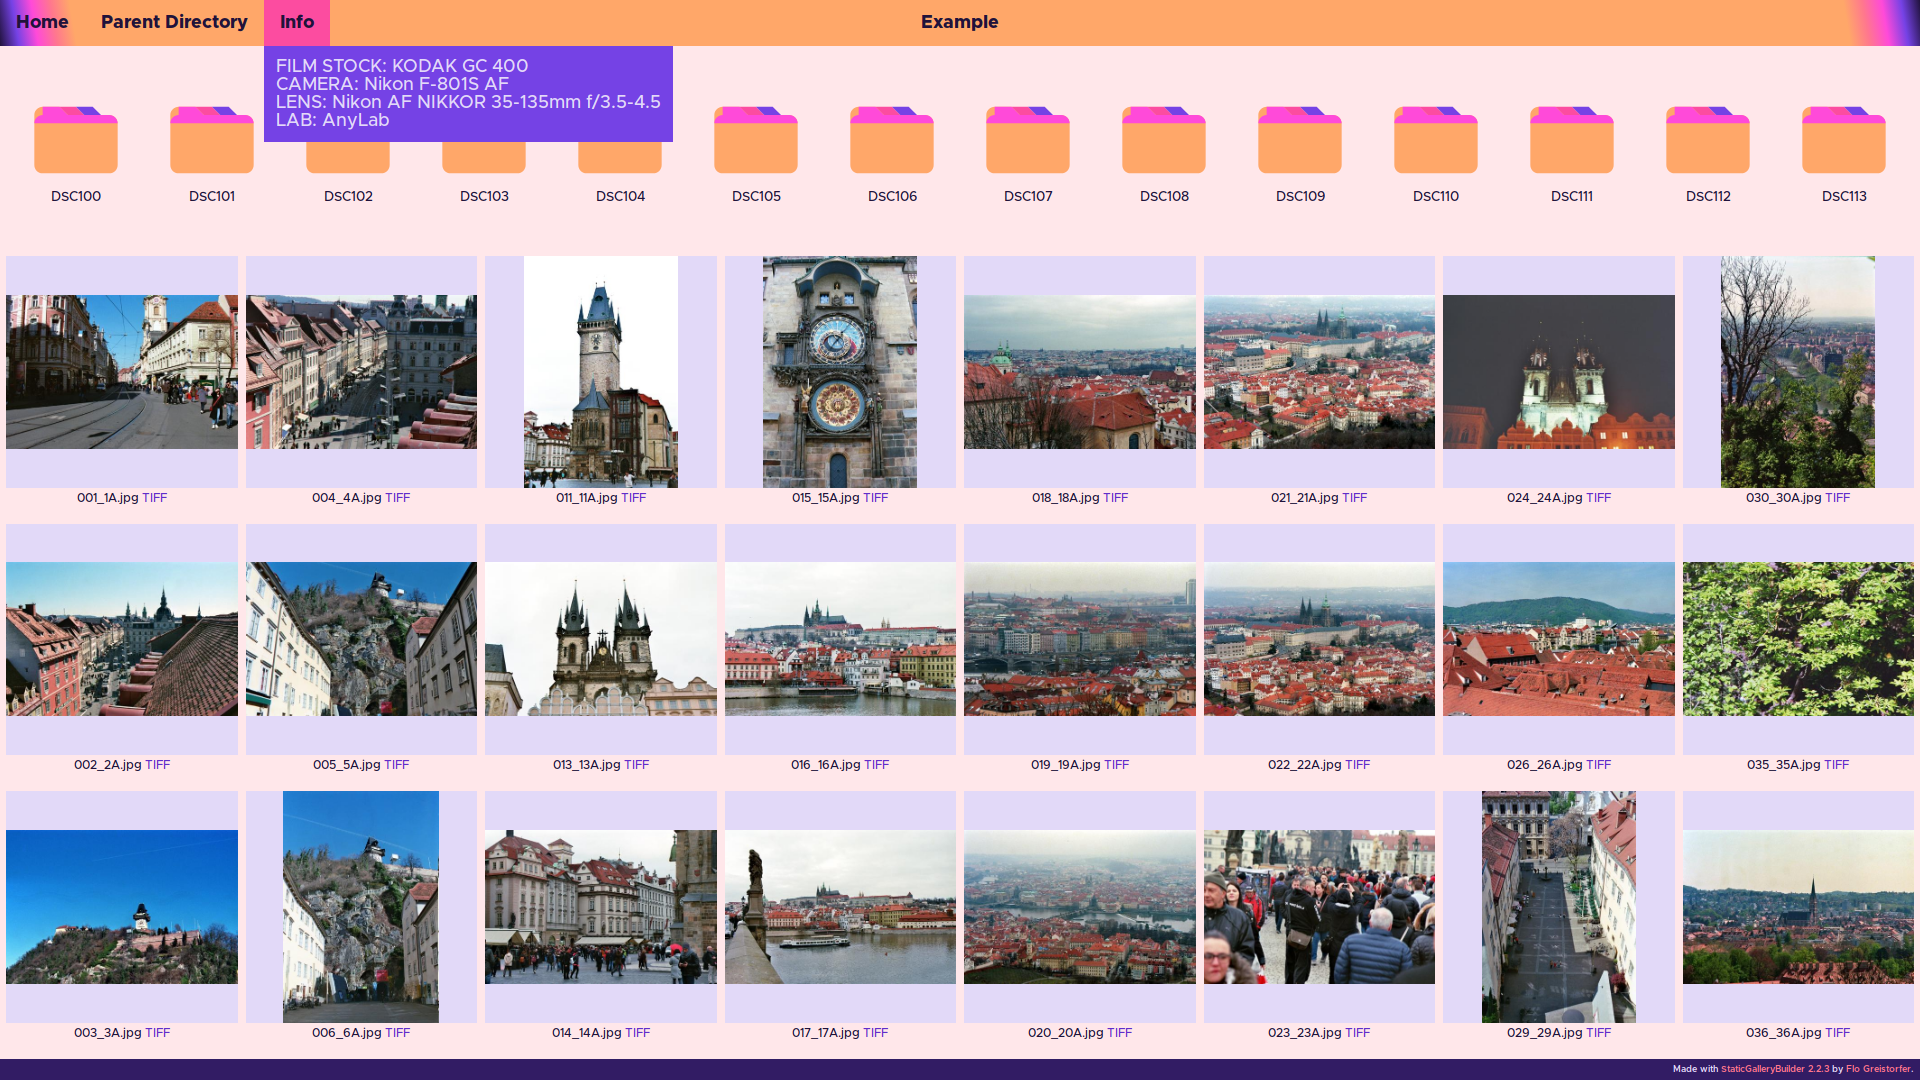
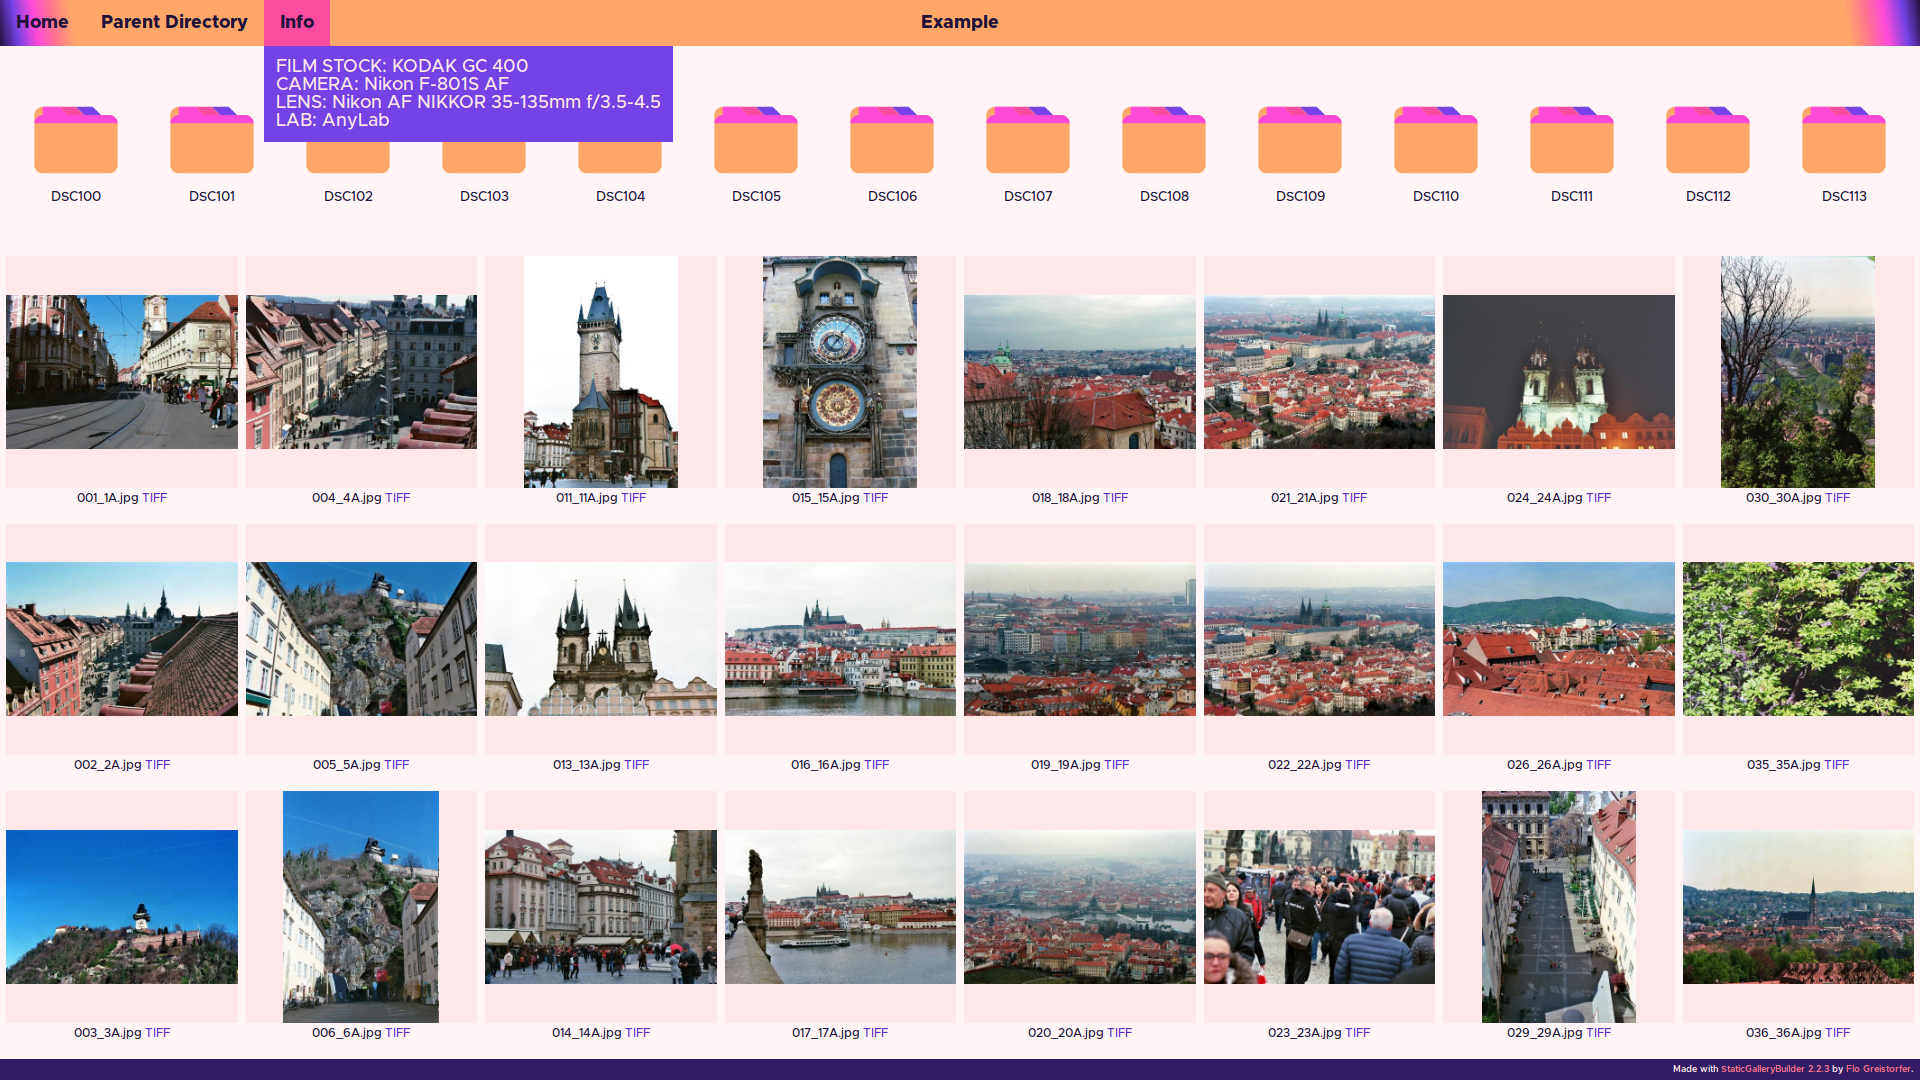
added support for all css color types

diff --git a/alpenglow-dark.css b/alpenglow-dark.css
@@ -1,18 +1,30 @@
-@import url('https://fonts.cdnfonts.com/css/metropolis-2');
+@import url("https://fonts.cdnfonts.com/css/metropolis-2");
 
 * {
-  --color1: #FFA769;
-  --color2: #FC4CA0;
-  --color3: #7542E5;
-  --color4: #FF4AD9;
-  --color5: #5F2ECA;
-  --color6: #7033CA;
-  --color7: #FF778E;
+  --color1: #ffa769;
+  --color2: #fc4ca0;
+  --color3: #7542e5;
+  --color4: #ff4ad9;
+  --color5: #5f2eca;
+  --color6: #7033ca;
+  --color7: #ff778e;
   --bcolor1: #e2d9f8;
-  --bcolor2: #20123A;
-  --bcolor3: #2B1753;
-  --bcolor4: #321C64;
-  --gradient: linear-gradient(80deg, var(--bcolor2) 0%, var(--color5) 1%, var(--color3) 2%, var(--color2) 3%, var(--color1) 4%, var(--color1) 96%, var(--color2) 97%, var(--color3) 98%, var(--color5) 99%, var(--bcolor2) 100%);
+  --bcolor2: #20123a;
+  --bcolor3: #2b1753;
+  --bcolor4: #321c64;
+  --gradient: linear-gradient(
+    80deg,
+    var(--bcolor2) 0%,
+    var(--color5) 1%,
+    var(--color3) 2%,
+    var(--color2) 3%,
+    var(--color1) 4%,
+    var(--color1) 96%,
+    var(--color2) 97%,
+    var(--color3) 98%,
+    var(--color5) 99%,
+    var(--bcolor2) 100%
+  );
 }
 
 body {

diff --git a/alpenglow.css b/alpenglow.css
@@ -1,18 +1,30 @@
-@import url('https://fonts.cdnfonts.com/css/metropolis-2');
+@import url("https://fonts.cdnfonts.com/css/metropolis-2");
 
 * {
-  --color1: #FFA769;
-  --color2: #FC4CA0;
-  --color3: #7542E5;
-  --color4: #FF4AD9;
-  --color5: #FF778E;
-  --color6: #ffe7ea;
-  --color7: #5F2ECA;
-  --bcolor1: #e2d9f8;
+  --color1: #ffa769;
+  --color2: #fc4ca0;
+  --color3: #7542e5;
+  --color4: #ff4ad9;
+  --color5: #ff778e;
+  --color6: #fff5f6;
+  --color7: #5f2eca;
+  --bcolor1: #ffe7ea;
   --bcolor2: #20123b;
-  --bcolor3: #2B1753;
-  --bcolor4: #321C64;
-  --gradient: linear-gradient(80deg, var(--bcolor2) 0%, var(--color3) 1%, var(--color4) 2%, var(--color5) 3%, var(--color1) 4%, var(--color1) 96%, var(--color5) 97%, var(--color4) 98%, var(--color3) 99%, var(--bcolor2) 100%);
+  --bcolor3: #2b1753;
+  --bcolor4: #321c64;
+  --gradient: linear-gradient(
+    80deg,
+    var(--bcolor2) 0%,
+    var(--color3) 1%,
+    var(--color4) 2%,
+    var(--color5) 3%,
+    var(--color1) 4%,
+    var(--color1) 96%,
+    var(--color5) 97%,
+    var(--color4) 98%,
+    var(--color3) 99%,
+    var(--bcolor2) 100%
+  );
 }
 
 body {

diff --git a/cornflower.css b/cornflower.css
@@ -1,7 +1,7 @@
 @import url("https://fonts.googleapis.com/css2?family=Montserrat:ital,wght@0,100..900;1,100..900&display=swap");
 
 * {
-  --color1: #6495ed;
+  --color1: cornflowerblue;
   --color2: #1346a4;
   --color3: #0e3377;
   --color4: #3674e7;
